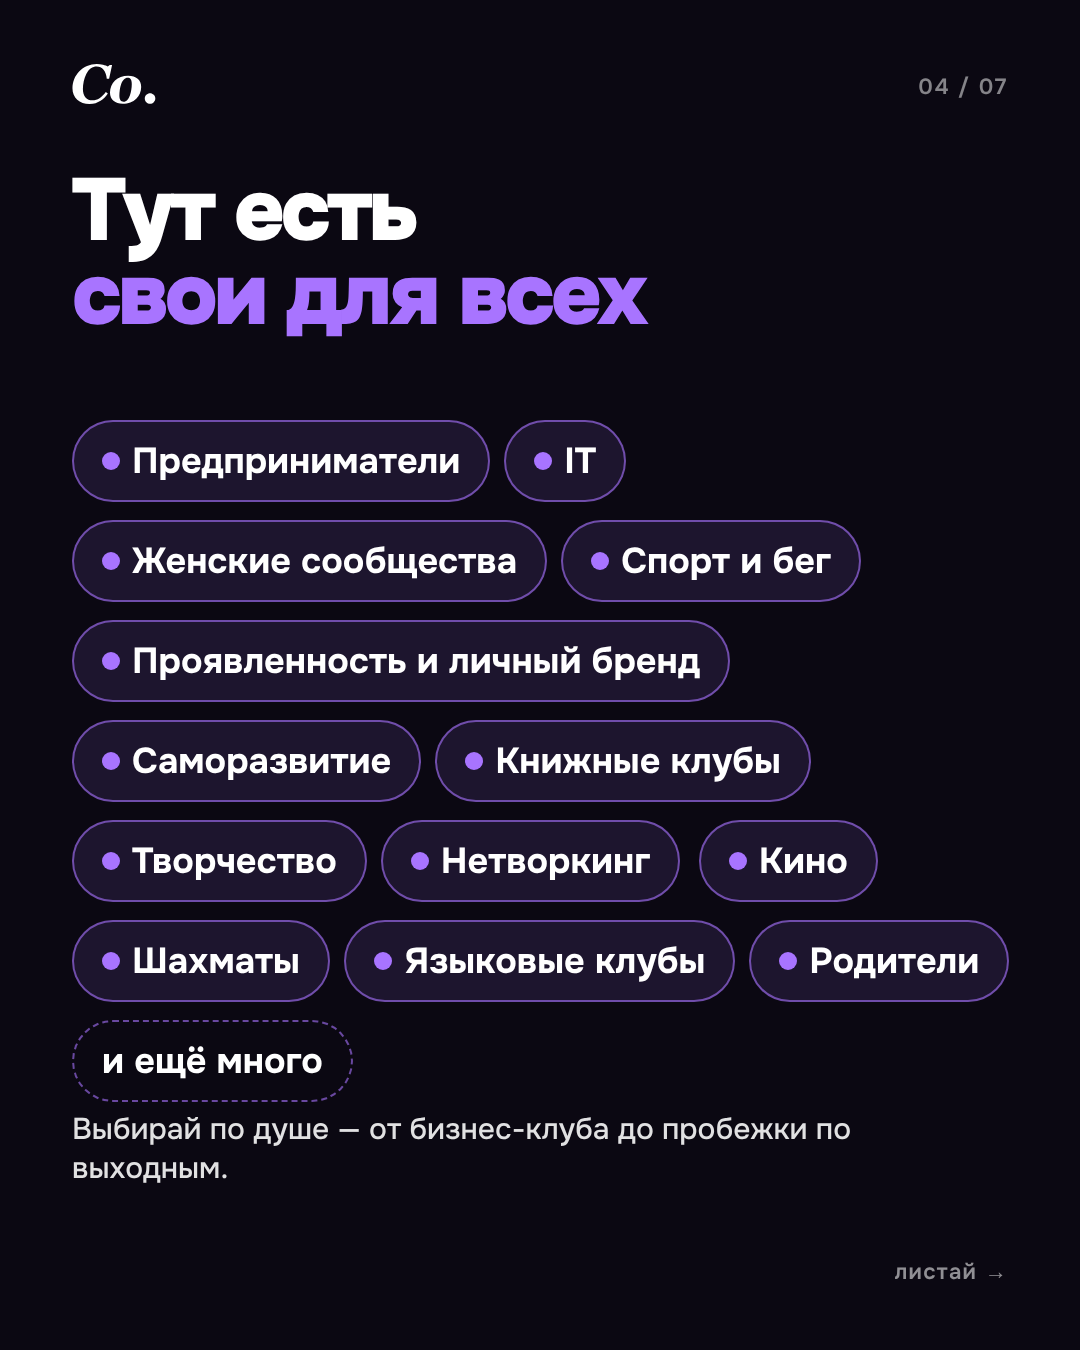
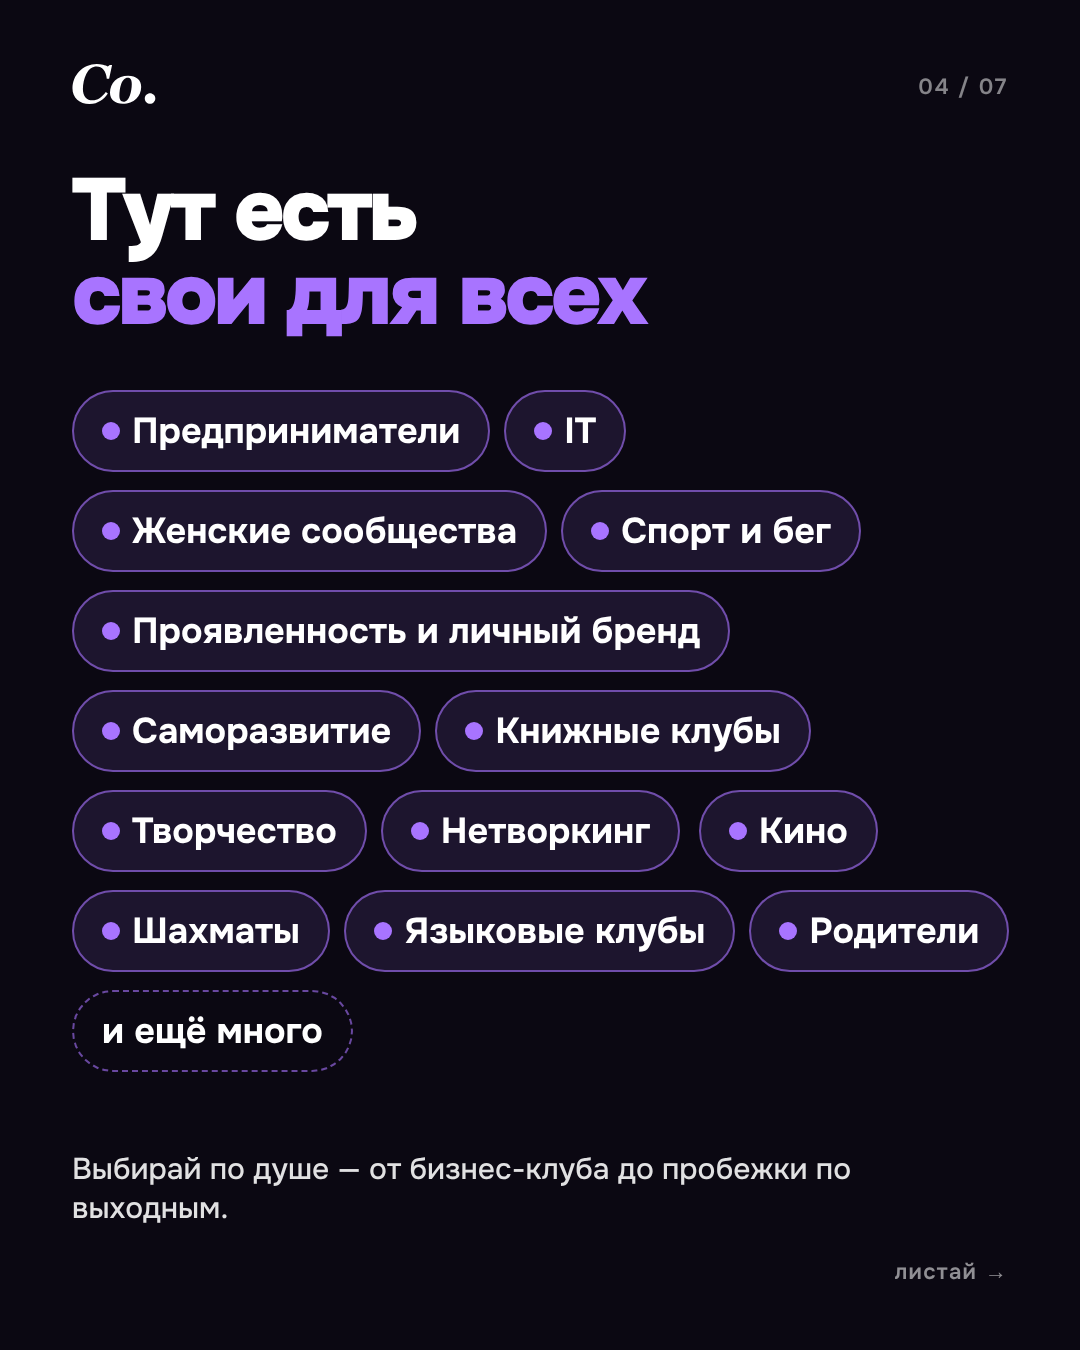
Карусель A: отступы слайда 4

Changed region(s): [[0.0611, 0.28, 0.9472, 0.9022], [0.3361, 0.8089, 0.7944, 0.8711]]

diff --git a/creatives/src/poster/carousel/A-4.html b/creatives/src/poster/carousel/A-4.html
@@ -29,14 +29,14 @@ h2{font-weight:800;letter-spacing:-.035em;line-height:1}
 .person{position:absolute}
 .person img{height:100%;display:block}
 </style></head><body><h1 class="abs" style="left:72px;top:170px;font-size:88px">Тут есть<br><span class="p">свои для всех</span></h1>
-<div class="abs" style="left:72px;right:30px;top:420px">
+<div class="abs" style="left:72px;right:30px;top:390px">
 <span class="chip"><i></i>Предприниматели</span><span class="chip"><i></i>IT</span>
 <span class="chip"><i></i>Женские сообщества</span><span class="chip"><i></i>Спорт и бег</span>
 <span class="chip"><i></i>Проявленность и личный бренд</span><span class="chip"><i></i>Саморазвитие</span><span class="chip"><i></i>Книжные клубы</span>
 <span class="chip"><i></i>Творчество</span><span class="chip"><i></i>Нетворкинг</span>
 <span class="chip"><i></i>Кино</span><span class="chip"><i></i>Шахматы</span><span class="chip"><i></i>Языковые клубы</span><span class="chip"><i></i>Родители</span>
 <span class="chip" style="border-style:dashed;background:none">и ещё много</span></div>
-<div class="abs lead" style="left:72px;right:120px;top:1110px;font-size:30px">Выбирай по душе — от бизнес-клуба до пробежки по выходным.</div><div class="top"><div><svg width="84" height="41" viewBox="0 0 77 38" fill="none" xmlns="http://www.w3.org/2000/svg">
+<div class="abs lead" style="left:72px;right:120px;top:1150px;font-size:30px">Выбирай по душе — от бизнес-клуба до пробежки по выходным.</div><div class="top"><div><svg width="84" height="41" viewBox="0 0 77 38" fill="none" xmlns="http://www.w3.org/2000/svg">
 <path d="M15.6912 37.0447C13.4308 37.0447 11.3353 36.7143 9.40484 36.0537C7.47438 35.3761 5.80789 34.4098 4.40543 33.1545C3.01945 31.8988 1.93872 30.371 1.16323 28.5701C0.387743 26.7532 0 24.7047 0 22.425C0 19.402 0.552742 16.5524 1.65822 13.8763C2.78021 11.2001 4.35593 8.81309 6.38539 6.71513C8.33235 4.69976 10.7083 3.08086 13.5133 1.85843C16.3347 0.619476 19.3294 0 22.4974 0C24.4114 0 26.35 0.231271 28.3134 0.693814C30.2771 1.15636 31.7455 1.69323 32.7189 2.30445L34.5753 0.941605H36.7283L33.9811 13.7772H31.8034C31.4733 10.0273 30.4751 7.17767 28.8084 5.22837C27.1585 3.26258 25.0301 2.27967 22.4231 2.27967C20.5092 2.27967 18.7437 2.8496 17.1267 3.98942C15.5098 5.12927 14.0743 6.88031 12.8203 9.24259C11.7973 11.1919 11.0136 13.455 10.4691 16.0321C9.9411 18.5925 9.67709 20.9961 9.67709 23.2428C9.67709 26.5468 10.4773 29.1154 12.0778 30.9491C13.6783 32.7828 15.8232 33.6994 18.5127 33.6994C20.8722 33.6994 23.0584 33.0387 25.0713 31.7171C27.0844 30.3957 29.023 28.4875 30.8875 25.9932L32.7933 27.2816C31.9848 28.5372 31.0196 29.776 29.8976 30.9985C28.7755 32.2044 27.4968 33.2536 26.0613 34.1455C24.5598 35.0871 23.0089 35.8056 21.4084 36.3014C19.8244 36.7969 17.9187 37.0447 15.6912 37.0447Z" fill="white"/>
 <path d="M63.6817 21.2605C63.6817 23.342 63.2858 25.3326 62.4936 27.2323C61.7017 29.132 60.5797 30.784 59.1278 32.188C57.5603 33.6914 55.7205 34.856 53.6085 35.6819C51.5131 36.4914 49.1536 36.8962 46.5303 36.8962C43.0159 36.8962 40.178 35.9628 38.0163 34.0962C35.8548 32.213 34.7741 29.6523 34.7741 26.4146C34.7741 24.2175 35.1783 22.1774 35.9869 20.2942C36.8119 18.411 37.9587 16.7673 39.4271 15.3631C40.8792 13.992 42.6611 12.91 44.7731 12.1171C46.8851 11.3076 49.1701 10.9029 51.6285 10.9029C55.3575 10.9029 58.2946 11.8197 60.4395 13.6534C62.6009 15.4705 63.6817 18.0062 63.6817 21.2605ZM54.9699 18.4605C54.9699 16.5277 54.6398 15.1071 53.9799 14.1985C53.3363 13.29 52.396 12.8357 51.1585 12.8357C49.8879 12.8357 48.7246 13.3478 47.6686 14.372C46.6129 15.3797 45.7547 16.8664 45.0947 18.8322C44.5172 20.4676 44.1048 22.2434 43.8573 24.1597C43.6098 26.0594 43.4862 27.7609 43.4862 29.2641C43.4862 31.263 43.816 32.7167 44.4761 33.6254C45.136 34.5172 46.0929 34.9633 47.3469 34.9633C48.6999 34.9633 49.8713 34.4099 50.8613 33.3032C51.8513 32.1964 52.6351 30.8335 53.2127 29.2146C53.7902 27.6287 54.2274 25.8777 54.5243 23.9615C54.8213 22.0287 54.9699 20.195 54.9699 18.4605Z" fill="white"/>
 <path d="M76.8 31.9899C76.8 33.295 76.3132 34.4265 75.3397 35.3847C74.3829 36.3428 73.2443 36.8218 71.9243 36.8218C70.5879 36.8218 69.433 36.351 68.4593 35.4094C67.5025 34.4512 67.0238 33.3113 67.0238 31.9899C67.0238 30.6683 67.5025 29.5284 68.4593 28.5702C69.433 27.5958 70.5879 27.1084 71.9243 27.1084C73.2443 27.1084 74.3829 27.5958 75.3397 28.5702C76.3132 29.545 76.8 30.6849 76.8 31.9899Z" fill="white"/>

diff --git a/creatives/src/poster/build_carousels.py b/creatives/src/poster/build_carousels.py
@@ -76,14 +76,14 @@ A = [
 <h2 class="abs" style="left:72px;top:600px;font-size:64px">сообществ Тбилиси<br>собрали в одном месте</h2>
 <div class="abs lead" style="left:72px;right:110px;top:860px">Мы сделали <b style="color:#fff">Co.Space</b> — каталог сообществ и афишу их встреч. Чтобы не искать по сотне чатов, а сразу видеть, кто чем живёт.</div>''', 3),
     page('''<h1 class="abs" style="left:72px;top:170px;font-size:88px">Тут есть<br><span class="p">свои для всех</span></h1>
-<div class="abs" style="left:72px;right:30px;top:420px">
+<div class="abs" style="left:72px;right:30px;top:390px">
 <span class="chip"><i></i>Предприниматели</span><span class="chip"><i></i>IT</span>
 <span class="chip"><i></i>Женские сообщества</span><span class="chip"><i></i>Спорт и бег</span>
 <span class="chip"><i></i>Проявленность и личный бренд</span><span class="chip"><i></i>Саморазвитие</span><span class="chip"><i></i>Книжные клубы</span>
 <span class="chip"><i></i>Творчество</span><span class="chip"><i></i>Нетворкинг</span>
 <span class="chip"><i></i>Кино</span><span class="chip"><i></i>Шахматы</span><span class="chip"><i></i>Языковые клубы</span><span class="chip"><i></i>Родители</span>
 <span class="chip" style="border-style:dashed;background:none">и ещё много</span></div>
-<div class="abs lead" style="left:72px;right:120px;top:1110px;font-size:30px">Выбирай по душе — от бизнес-клуба до пробежки по выходным.</div>''', 4),
+<div class="abs lead" style="left:72px;right:120px;top:1150px;font-size:30px">Выбирай по душе — от бизнес-клуба до пробежки по выходным.</div>''', 4),
     page('''<h1 class="abs" style="left:72px;top:190px;font-size:88px">Как это<br><span class="p">работает</span></h1>
 <div class="abs" style="left:72px;right:72px;top:480px">
 <div class="step"><b>1</b><div>Заходишь на Co.Space и выбираешь сообщество</div></div>
